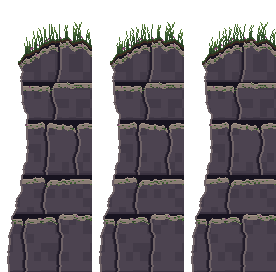
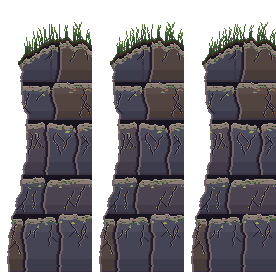
Åsen: sprekker, lav og fargevariasjon på bergnabbane
Blokkene i nabbane får skrå, forgreinte sprekker med lys kant, klynger av
lav i gulgrønt, grågrønt og rustoransje, ei vassstripe, og litt varmare
eller kaldare tone med ein svak lysovergang nedover framsida.

diff --git a/tools/pikselkunst/utsikt.py b/tools/pikselkunst/utsikt.py
@@ -680,8 +680,17 @@ def nabb_ramme(vind, bjork, s, speil=False):
             u += bw
         rader.append((y, y + hr, blokker)); y += hr; k += 1
     mose = M.rampe("#2c4228", "#3e5a32", "#56763e")
+    # Fargevariasjon: somme blokker litt varmare (brungrå), andre litt kaldare (blågrå), og ein svak
+    # lysovergang nedover framsida (to flate band, ikkje dither).
+    TONAR = {"nøytral": ("#544a56", "#4c4350", "#433b48"), "varm": ("#5a4c48", "#52453f", "#483c38"), "kald": ("#4c4c5c", "#454454", "#3c3c4c")}
+    framside = {}                                                         # (x, y) -> blokk, for sprekker og lav etterpå
+    blokkinfo = []
     for (r0, r1, blokker) in rader:
         for (b0_, b1_, offv, offh) in blokker:
+            bid = len(blokkinfo)
+            tv = M.h(b0_, r0, s + 30)
+            tone_ = TONAR["varm"] if tv < 0.33 else TONAR["kald"] if tv > 0.7 else TONAR["nøytral"]
+            blokkinfo.append((r0, r1, b0_, b1_, (offv + offh) // 2))
             for yy in range(r0, r1):
                 # ujamne fuger: kanten flyttar seg litt nedover blokka
                 b0 = b0_ + round(math.sin(yy / 7 + b0_) * 1.4 + (M.stoy(yy / 5, b0_, s + 28) - 0.5) * 2)
@@ -707,10 +716,53 @@ def nabb_ramme(vind, bjork, s, speil=False):
                     elif dv < 3: c = F["lysKant"]                                         # skråkanten mot ljoset
                     elif dh < 2: c = F["mork"]                                            # sida bort frå ljoset
                     elif yy > r1 - 3: c = F["botn"]
-                    else: c = F["front2"] if M.h((x + 3 * k) // 7, yy // 9, s + 23) > 0.72 else F["front"]
+                    else:
+                        rel = (yy - r0) / max(1, r1 - r0)
+                        c = tone_[0] if rel < 0.3 else tone_[1] if rel < 0.75 else tone_[2]
+                        framside[(x, yy)] = bid
                     if iu < 2: c = F["lysKant"] if speil else F["skugge"]                 # yttersida av nabben
                     if 1 <= dy < 5 and M.h(x // 2, yy, s + 24) > 0.78: c = M.tone(mose, M.h(x, yy, s + 25), x, yy)   # mose på hyllene
                     L_.p(x, yy, c)
+            pass
+    # Sprekker: få per blokk, på skrå og med greiner, mørk line med lys kant mot ljoset (til høgre for
+    # sprekka, der veggen i sprekka vender mot venstre). Ei mørk vassstripe renn ned frå éi sprekk.
+    sprekkFarge, lysKant, vatnFarge = "#1e1826", "#6e6268", "#3a3240"
+    vatn_brukt = False
+    lav = ["#9aa456", "#7e8c72", "#b0683a"]
+    for bid, (r0, r1, b0_, b1_, off) in enumerate(blokkinfo):
+        fr = [p for p, b in framside.items() if b == bid]
+        if len(fr) < 40: continue
+        xs = [p[0] for p in fr]; x0, x1 = min(xs), max(xs)
+        for n in range(2 + int(M.h(bid, 1, s + 31) * 2)):
+            x = x0 + 4 + int(M.h(bid, n, s + 32) * max(1, x1 - x0 - 8)); yy = r0 + off + 5 + int(M.h(bid, n, s + 47) * 8)
+            retning = -1 if M.h(bid, n, s + 33) < 0.5 else 1
+            lengd = 8 + int(M.h(bid, n, s + 34) * 18)
+            for steg in range(lengd):
+                if (x, yy) in framside and framside[(x, yy)] == bid:
+                    L_.p(x, yy, sprekkFarge)
+                    if (x + 1, yy) in framside: L_.p(x + 1, yy, lysKant)
+                    if M.h(x, yy, s + 35) > 0.82 and (x - 1, yy) in framside: L_.p(x - 1, yy, M.hx(lav[int(M.h(x, yy, s + 36) * 2.2)]))   # lav langs sprekka
+                if steg == lengd // 2 and M.h(bid, n, s + 37) > 0.5:   # ei grein
+                    gx, gy = x, yy
+                    for g2 in range(6):
+                        gx -= retning; gy += 1
+                        if (gx, gy) in framside: L_.p(gx, gy, sprekkFarge)
+                yy += 1
+                if M.h(x, yy, s + 38) < 0.45: x += retning
+                if M.h(x, yy, s + 39) < 0.12: retning = -retning
+            if not vatn_brukt and M.h(bid, n, s + 40) > 0.5:          # vassstripe ned frå sprekka
+                vatn_brukt = True
+                for vy in range(yy, r1 - 2):
+                    for vx in (x, x + 1):
+                        if (vx, vy) in framside and M.h(vx, vy, s + 41) > 0.15: L_.p(vx, vy, vatnFarge)
+        # Lav i små klynger nær toppkanten av blokka
+        for n in range(2 + int(M.h(bid, 5, s + 42) * 3)):
+            cx = x0 + int(M.h(bid, n, s + 43) * (x1 - x0)); cy = r0 + off + 5 + int(M.h(bid, n, s + 44) * 4)
+            f = lav[0] if M.h(bid, n, s + 45) < 0.5 else lav[1] if M.h(bid, n, s + 45) < 0.88 else lav[2]
+            for dx, dy in [(0, 0), (1, 0), (0, 1), (-1, 1), (1, 1), (2, 1)]:
+                if M.h(cx + dx, cy + dy, s + 46) > 0.25 and (cx + dx, cy + dy) in framside: L_.p(cx + dx, cy + dy, f)
+    for (r0, r1, blokker) in rader:
+        for (b0_, b1_, offv, offh) in blokker:
             # lyng på toppflata av nokre blokker
             if M.h(b0_, r0, s + 26) > 0.55:
                 u = b0_ + (b1_ - b0_) // 2; yy = max(r0, int(topp(max(0, u)))) + (offv + offh) // 2 + 1

diff --git a/tools/pikselkunst/ARBEIDSLOGG.md b/tools/pikselkunst/ARBEIDSLOGG.md
@@ -1395,3 +1395,17 @@ same måte, uansett kven som tek over.
 - **Vurdert:** Før og etter: `forhand/skjerm/r44-for-etter.png` (neset og ytst på hylla), og
   `r44-nabb.png` (nabbane åleine).
 - **Står att:** Blokkradene ligg framleis litt for jamt over kvarandre.
+
+## Runde 45: sprekker, lav og fargevariasjon på nabbane
+
+- **Oppdrag:** Brukaren: legg til sprekker, lav og litt fargevariasjon på forsida av blokkene.
+- **Gjort:** `nabb_ramme` i `utsikt.py`: kvar blokk får ein tone (nøytral, varm brungrå eller kald blågrå)
+  og ein svak lysovergang nedover framsida i tre flate band. Etter at blokkene er teikna, får kvar blokk
+  to til tre sprekker som går på skrå og byter retning, nokre med ei grein, teikna som ei mørk line med
+  ei lys kant til høgre (veggen i sprekka som vender mot ljoset), og lav langs sprekkene. Små klynger av
+  lav (gulgrøn, grågrøn og ein og annan rustoransje) ligg nær toppkanten, og éi sprekk har ei mørk
+  vassstripe nedover. Ingen dither. Kantbandet øvst er som før.
+- **Vurdert:** `forhand/skjerm/r45-for-etter.png` (same utsnitt som r44: neset og ytst på hylla) og
+  `r45-nabb.png` (nabbane åleine). I spelet syner berre toppen av nabbane, så det er dei øvste sprekkene
+  og lavflekkene som syner.
+- **Står att:** Ingenting nytt.

diff --git a/tools/pikselkunst/STILGUIDE.md b/tools/pikselkunst/STILGUIDE.md
@@ -297,7 +297,10 @@ landskap langt nede som flyttar seg saktare enn kartet.
   og lysare, og svake lysstrålar fell skrått ned gjennom disen.
 - Bergnabbane i forgrunnen er bygde av få, store steinblokker med klare flater: lyse toppflater, ei lys
   skråkant på sida mot ljoset, rolege mellomtonar på framsidene og mørk skugge berre i fugene og under
-  blokker som stikk ut. Lite dither. Mose og lyng på toppflatene. Litt mørkare og meir metta enn
+  blokker som stikk ut. Lite dither. Mose og lyng på toppflatene.
+  Framsidene har nokre få sprekker på skrå med greiner (mørk line, lys kant mot ljoset), små klynger av lav
+  (gulgrøn, grågrøn, litt rustoransje) nær toppkantar og sprekker, ei vassstripe, og litt fargevariasjon:
+  somme blokker varmare (brungrå), andre kaldare (blågrå), med to flate band lysare øvst. Litt mørkare og meir metta enn
   klippeveggene i kartet, så dei ligg framfor.
 - Forgrunnen over stupet står alltid på noko: bergnabbar som kjem inn frå sida av biletet, med gras, lyng
   og ei lita bjørk på toppen, og berg som går så langt ned at det når kanten av biletet i alle
